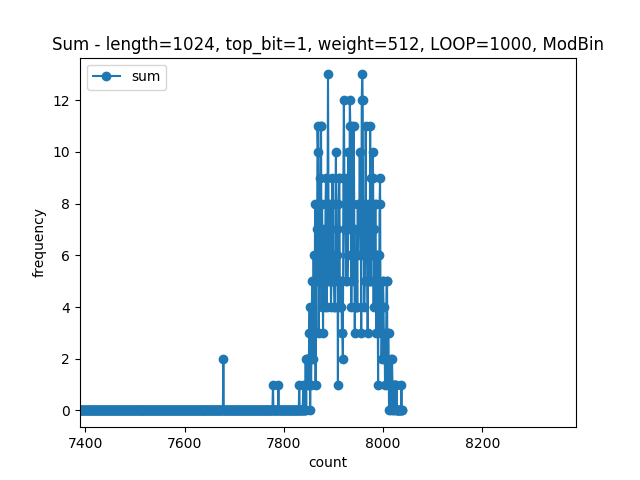
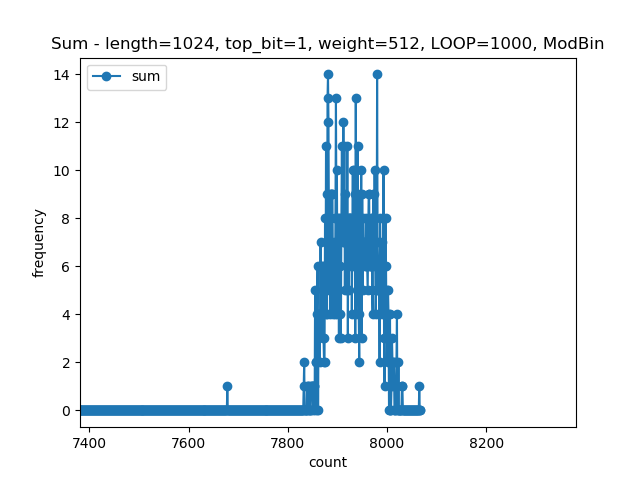
20180930 CRT-ModBinの作成

diff --git a/montgomery.py b/montgomery.py
@@ -33,32 +33,32 @@ def MR(T, mod_count, mult_count, N_dash, N):
     R = 2 ** length_N
     R_2 = R*R % N
     #print('N={0}, R={1}, R_2={2}, N_dash={3}'.format(N,R,R_2,N_dash))
-    print(' ~~~~~~~~~~~~ MR(T:{0}, mod_count:{1}, mult_count:{2}, N_dash:{3}, N:{4}) ~~~~~~~~~~~~'.format(T, mod_count, mult_count, N_dash, N))
+    #print(' ~~~~~~~~~~~~ MR(T:{0}, mod_count:{1}, mult_count:{2}, N_dash:{3}, N:{4}) ~~~~~~~~~~~~'.format(T, mod_count, mult_count, N_dash, N))
 
     tr, mod_count = bin.modulo(T, R, mod_count) # tr <= T % R の計算
-    print('tr = T % R = {0} % {1} = {2}'.format(T, R, tr))
+    #print('tr = T % R = {0} % {1} = {2}'.format(T, R, tr))
     trn, mult_count = bin.multiply(tr, N_dash, mult_count) # trn <= (T % R) * N'の計算
-    print('trn = tr * N_dash = {0} * {1} = {2}'.format(tr, N_dash, trn))
+    #print('trn = tr * N_dash = {0} * {1} = {2}'.format(tr, N_dash, trn))
     m_1, mod_count = bin.modulo(trn, R, mod_count) # m_1 <= ((T % R) * N') % Rの計算
-    print('m_1 = trn % R = {0} % {1} = {2}'.format(trn, R, m_1))
+    #print('m_1 = trn % R = {0} % {1} = {2}'.format(trn, R, m_1))
     mn, mult_count = bin.multiply(m_1, N, mult_count)
-    print('mn = m_1 * N = {0} * {1} = {2}'.format(m_1, N, mn))
+    #print('mn = m_1 * N = {0} * {1} = {2}'.format(m_1, N, mn))
     """
     質問その2：m_2計算時の「//」はmod_countをインクリメントしなくて良いか.
     """
     m_2 = (T + mn)//R
-    print('m_2 = (T + mn)//R = ({0} + {1})//{2} = {3}'.format(T, mn, R, m_2))
+    #print('m_2 = (T + mn)//R = ({0} + {1})//{2} = {3}'.format(T, mn, R, m_2))
 
     if m_2 <= N:
-        print('MRにおいてmod_countを余分にインクリメントしませんでした.\n')
+        #print('MRにおいてmod_countを余分にインクリメントしませんでした.\n')
         return m_2, mod_count, mult_count
     else:
-        print('MRにおいてmod_countを余分にインクリメントしました.')
+        #print('MRにおいてmod_countを余分にインクリメントしました.')
         """
         質問その3：m_2 > Nのとき, mod_countを1インクリメントすべきかどうか.
         """
         mod_count += 1
-        print('m_2 = m_2 - N = {0} - {1} = {2}\n'.format(m_2, N, m_2-N))
+        #print('m_2 = m_2 - N = {0} - {1} = {2}\n'.format(m_2, N, m_2-N))
         return m_2 - N, mod_count, mult_count
 
 #
@@ -66,9 +66,9 @@ def MR(T, mod_count, mult_count, N_dash, N):
 #
 def mod_bin(c, d, N):
     array_N = bin.binary_d(N)
-    print('array_N = {0}'.format(array_N))
+    #print('\n\narray_N = {0}'.format(array_N))
     length_N = len(array_N)
-    print('length_N = {0}'.format(length_N))
+    #print('length_N = {0}'.format(length_N))
     R = 2 ** length_N
     R_2 = R*R % N
     N_dash = mod_equal_minus_1(N, R)
@@ -76,14 +76,14 @@ def mod_bin(c, d, N):
     mod_count = 0
     mult_count = 0
     #print('c = {0}, d = {1}, N = {2}'.format(c, d, N))
-    print('c={0}, d={1}, N={2}, R={3}, R_2={4}, N_dash={5}'.format(c,d,N,R,R_2,N_dash))
+    #print('c={0}, d={1}, N={2}, R={3}, R_2={4}, N_dash={5}'.format(c,d,N,R,R_2,N_dash))
     """
     質問その4：RとR_2の計算はカウント対象でない (ついでにRの計算方法があっているかを確認する).
     """
     #print('length_N: {0}, R : {1}, R_2 : {2}, N_dash : {3}'.format(length_N, R, R_2, N_dash))
     cr, mult_count = bin.multiply(c, R_2, mult_count)
-    print('cr = c * R_2 = {0}'.format(cr))
-    print('MR(c*R_2)の実行>>>')
+    #print('cr = c * R_2 = {0}'.format(cr))
+    #print('MR(c*R_2)の実行>>>')
     large_C, mod_count, mult_count = MR(cr, mod_count, mult_count, N_dash, N)
     #print('MR({1}): large_C={0}'.format(large_C, cr))
     large_M = large_C
@@ -91,17 +91,17 @@ def mod_bin(c, d, N):
     l = len(array_d)
     for i in range(1, l):
         mm, mult_count = bin.multiply(large_M, large_M, mult_count)
-        print('MR(M*M)の実行>>>')
+        #print('MR(M*M)の実行>>>')
         large_M, mod_count, mult_count = MR(mm, mod_count, mult_count, N_dash, N)
         #print('MR({1}) large_M={0}'.format(large_M, mm))
         if array_d[i] == 1:
             mc, mult_count = bin.multiply(large_M, large_C, mult_count)
-            print('MR(M*C)の実行>>>')
+            #print('MR(M*C)の実行>>>')
             large_M, mod_count, mult_count = MR(mc, mod_count, mult_count, N_dash, N)
             #print('MR({1}) large_M={0}'.format(large_M, mc))
-    print('MR(M)の実行>>>')
+    #print('MR(M)の実行>>>')
     m, mod_count, mult_count = MR(large_M, mod_count, mult_count, N_dash, N)
-    print('MR({1}) m={0}'.format(m, large_M))
+    #print('MR({1}) m={0}'.format(m, large_M))
 
     return m, mod_count, mult_count
 

diff --git a/crt_modbin.py b/crt_modbin.py
@@ -17,19 +17,20 @@ def mod_equal_1_crt(B, n):
 # CRT-ModBinを実行するメソッド
 #
 def crt(c,d,N,p,q):
-    #print('\n\nc={0}, d={1}, N={2}, p={3}, q={4}'.format(c,d,N,p,q))
-    a, mod_count1, mult_count1 = mon.mod_bin(c, d, p)
-    print('c**d mod p = {0}'.format(a))
-    b, mod_count2, mult_count2 = mon.mod_bin(c, d, q)
-    print('c**d mod q = {0}'.format(b))
-    #print('\na = {0}, b = {1}'.format(a, b))
-    mod_count = mod_count1 + mod_count2
-    mult_count = mult_count1 + mult_count2
+
+    mod_count = 0
+    mult_count = 0
+    #
+    # あらかじめ計算しておく部分
+    #
+    d_p = d % (p-1)
+    d_q = d % (q-1)
+    #d_p, _ = bin.modulo(d, p-1, mod_count)
+    #d_q, _ = bin.modulo(d, q-1, mod_count)
+    q_dash = mod_equal_1_crt(q, p)
+    #print('q_dash = {0}'.format(q_dash))
 
     """
-    質問その5：以下を確認.
-    """
-
     # Q, Pの計算
     # countの操作はしなくて良い.
     # あらかじめ計算しなければいけないものなので.
@@ -38,12 +39,57 @@ def crt(c,d,N,p,q):
 
     # 以下の二つはcountを操作しなくて良い
     # あらかじめ計算しなければいけないものなので.
-    Q, _ = bin.modulo(q*y, N, mod_count)
-    P, _ = bin.modulo(p*x, N, mod_count)
+    Q, _ = bin.modulo(q*y, N, 0)
+    P, _ = bin.modulo(p*x, N, 0)
+    """
+
+    #
+    # 以上, あらかじめ計算しておく部分
+    #
+
+    """
+    #print('\n\nc={0}, d={1}, N={2}, p={3}, q={4}'.format(c,d,N,p,q))
+    print('================= CRT(c:{0}, d:{1}, N:{2}, p:{3}, q:{4}) ================='.format(c, d, N, p, q))
+    a, mod_count1, mult_count1 = mon.mod_bin(c, d, p)
+    print('c**d mod p = {0}'.format(a))
+    b, mod_count2, mult_count2 = mon.mod_bin(c, d, q)
+    print('c**d mod q = {0}'.format(b))
+    #print('\na = {0}, b = {1}'.format(a, b))
+    mod_count = mod_count1 + mod_count2
+    mult_count = mult_count1 + mult_count2
+
 
     aq, mult_count = bin.multiply(a, Q, mult_count)
     bp, mult_count = bin.multiply(b, P, mult_count)
     aqbp = aq + bp
     ans, mod_count = bin.modulo(aqbp, N, mod_count)
+    """
+
+    #print('================= CRT(c:{0}, d:{1}, N:{2}, p:{3}, q:{4}) ================='.format(c, d, N, p, q))
+    #c_p = c % p
+    c_p, mod_count = bin.modulo(c, p, mod_count)
+    #print('c_p = c % p = {0} % {1} = {2}'.format(c, p, c_p))
+    #print('d_p = d % (p-1) = {0} % {1} = {2}'.format(d, p-1, d_p))
+
+    #c_q = c % q
+    c_q, mod_count = bin.modulo(c, q, mod_count)
+    #print('c_q = c % q = {0} % {1} = {2}'.format(c, q, c_q))
+    #print('d_q = d % (q-1) = {0} % {1} = {2}'.format(d, q-1, d_q))
+
+    m_p, mod_count1, mult_count1 = mon.mod_bin(c_p, d_p, p)
+    #print('(c_p)**(d_p) mod p = {0}'.format(m_p))
+
+    m_q, mod_count2, mult_count2 = mon.mod_bin(c_q, d_q, q)
+    #print('(c_q)**(d_q) mod q = {0}'.format(m_q))
+
+    mod_count += (mod_count1 + mod_count2)
+    mult_count += (mult_count1 + mult_count2)
+
+    x, mult_count = bin.multiply(q_dash, (m_p - m_q), mult_count)
+    y, mod_count = bin.modulo(x, p, mod_count)
+    z, mult_count = bin.multiply(y, q, mult_count)
+    ans = m_q + z
+
+    #ans = m_q + (q_dash * (m_p - m_q) mod p)
 
     return ans, mod_count, mult_count

diff --git a/main.py b/main.py
@@ -5,10 +5,10 @@ p = 269
 q = 271
 N = p * q
 phi_N = (p-1)*(q-1) # Nのオイラー数
-Loop_times = 10 # ループ回数
-d_length = 5 # dの鍵長
+Loop_times = 10000 # ループ回数
+d_length = 1024 # dの鍵長
 d_top_bit = 1 # dにおける1の最上位ビット
-d_weight = 3 # dの重み
+d_weight = 512 # dの重み
 
 #
 # メイン関数
@@ -49,14 +49,16 @@ if __name__ == '__main__':
 
     for i in range(0, Loop_times):
         # 以下, 鍵と暗号文の設定
-        c = random.randint(1, 1000) #(1, N-1)
+        c = random.randint(1, N-1) #(1, N-1)
         #c = 13
         #d, e = random.choice(set_array)
         d = key.make_d(d_length, d_top_bit, d_weight)
         d = key.change_decimal(d)
         #d = 129667142224493376692598009254433971104142689639133939016663805235690514764070439278340529821593613733767736085840342773227562005989366225702930262500188315921135735194352545776495216733861881734424315530019034559017641676246678908946030724757838055909739018695585134456243742833078805185867721830502040224979
         #d = 98988172907157536041411651836332915409495238193958618881994891816204855747906446866341871818009754294835341535624597289908621427392149320450427205852149548332287353115497516242401599421634979853506638393804768050236069253337668774919239694949456378470058673515155977335130447038781976130436286554482667842358
-
+        #d = 155220333643075440049874609005254799824389838264946193126966558624583992636973173335977229916631884962555133905435522866470967523787387823856289879993237744910808966653958757859034906792661194143927663715974828957407525615274485877655663416792652797611750564594666211555371726839364516553421973019531262185165
+        #d = 90404803435003011030952403298087588241122976397891586528577171387498341600254545243309118060900715330317784854384938000055299508064630220442332245328982659778429230323162186930723694800834837140160063114778386876608703929802434819989551055752716760704798322393815581622176658177005092913574865684004109308071
+        d = 105587712568170014815018788924256375275021522565307677987799946428380600019073852805257804352058888661964091896598153579944877946366587860527015837499891326244570099402093681549841377236493224231078029895318102881947781601120548885464048829657105266971946196883589979781409233865566147934205902543340689244829
         print('\n\n************* {0}回目 ***************'.format(i+1))
         print('******** c = {0} , d = {1}, {2}  ********\n'.format(c, bin.binary_d(d), d))
         #print('******** c = {0} , d = {1}, {2} , e = {3} ********\n'.format(c, bin.binary_d(d), d, e))
@@ -125,8 +127,7 @@ if __name__ == '__main__':
     print('correct: {0}'.format(correct))
     print('crt_odd: {0}'.format(crt_odd))
 
-    """
+
     plot.plotting(binary_mod_count_list, binary_mult_count_list,  binary_sum_count_list,'binary')
     plot.plotting(modbin_mod_count_list, modbin_mult_count_list, modbin_sum_count_list,'ModBin')
     plot.plotting(crt_mod_count_list, crt_mult_count_list, crt_sum_count_list, 'CRT-ModBin')
-    """

diff --git a/binary.py b/binary.py
@@ -46,7 +46,7 @@ def modulo(x, y, mod_count):
     質問その1：この条件分岐は必要かどうか？
     """
     #print('modulo({0}, {1}, {2}) = '.format(x, y, mod_count))
-    if x > y:
+    if (x > y) or (x < 0):
         mod_count += 1
         x = x % y
     #print('{0}, {1}'.format(x, mod_count))
